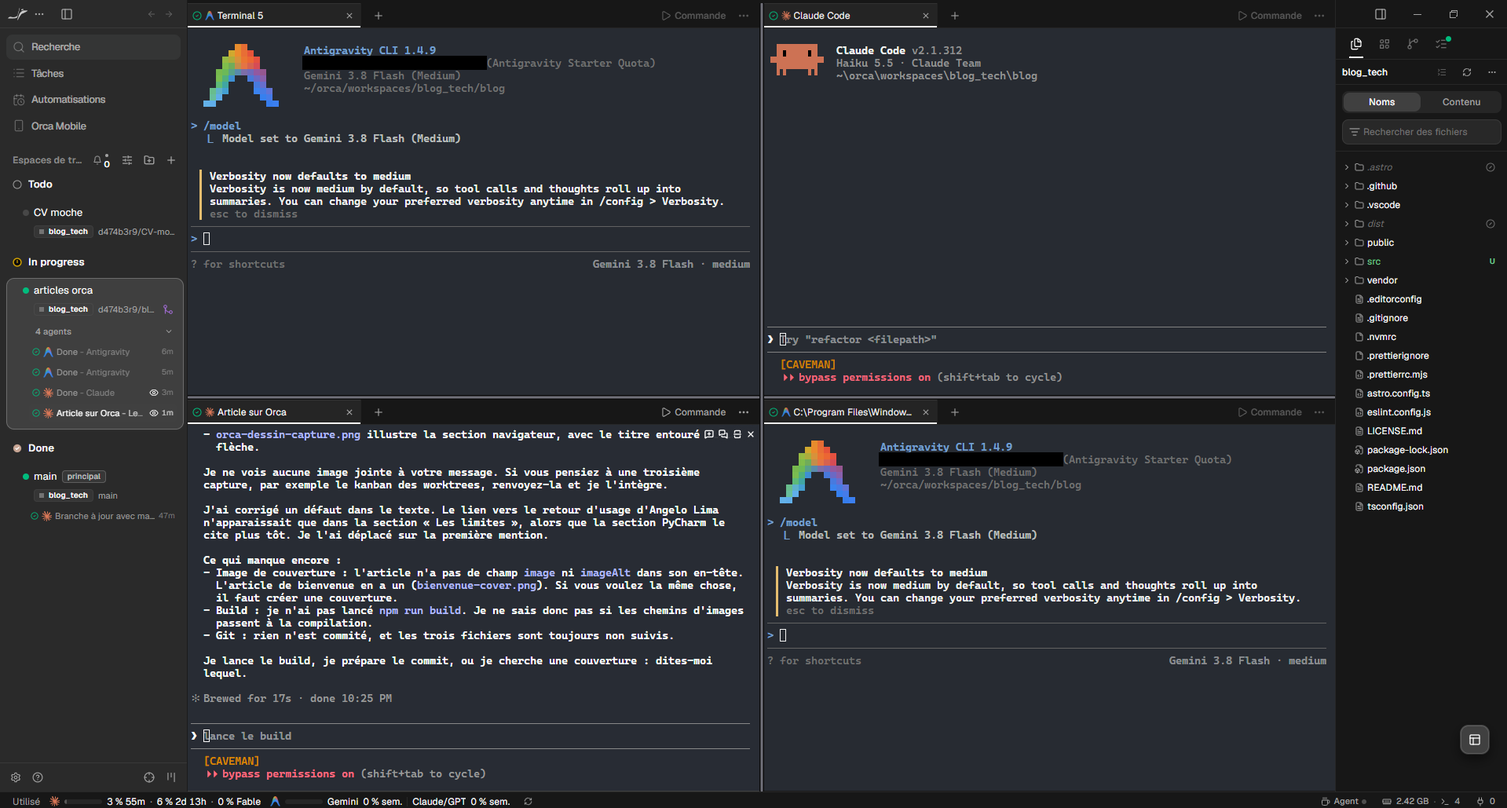
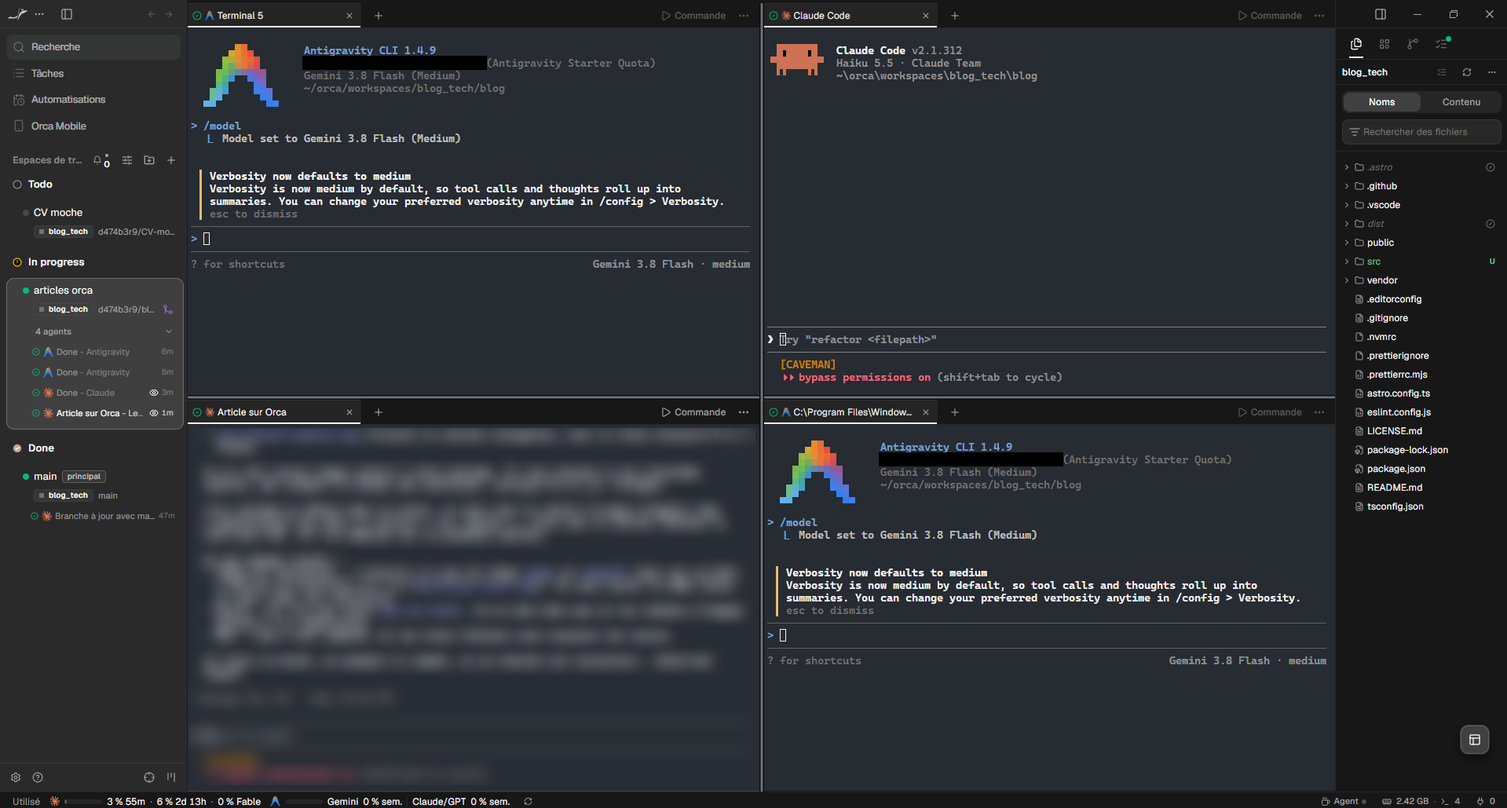
fix(blog): fact-check and polish Orca article, blur private screenshot text

Changed region(s): [[0.123, 0.5287, 0.4919, 0.8707], [0.123, 0.9018, 0.3075, 0.9951]]

diff --git a/src/data/post/orca.md b/src/data/post/orca.md
@@ -1,9 +1,9 @@
 ---
 publishDate: 2026-10-28T18:00:00Z
-title: 'Orca, mon précieux ! Pourquoi je migre de PyCharm'
-excerpt: 'Savoir quel agent fait quoi et ce qu''il coûte à la machine, des kanbans, un crayon dans le navigateur, une course entre trois agents : les killer features qui me font migrer vers Orca.'
+title: 'Orca, mon précieux ! Pourquoi je migre de PyCharm'
+excerpt: "Savoir quel agent fait quoi et ce qu'il coûte à la machine, des kanbans, un crayon dans le navigateur, une course entre trois agents : les killer features qui me font migrer vers Orca."
 image: ~/assets/images/orca-cover-site.png
-imageAlt: 'Page d''accueil d''Orca sur fond noir : le slogan « Ship 100x with the agent IDE » et une phrase expliquant qu''on y lance des agents de code en parallèle, chacun dans son propre worktree. Visuel : onorca.dev'
+imageAlt: "Page d'accueil d'Orca sur fond noir : le slogan « Ship 100x with the agent IDE » et une phrase expliquant qu'on y lance des agents de code en parallèle, chacun dans son propre worktree. Visuel : onorca.dev"
 category: Outils
 tags:
   - orca
@@ -14,111 +14,111 @@ tags:
 
 <div class="tldr">
 
-⚡ **TL;DR : l'article en 3 points**
+⚡ **TL;DR : l'article en 3 points**
 
-- **Pourquoi je migre** : Orca range chaque tâche dans son propre git worktree, avec son terminal, son navigateur et l'état de son agent. Les agents arrêtent de se marcher dessus.
-- **Les killer features** : voir quel agent fait quoi et ce qu'il consomme sur ma machine, deux kanbans (worktrees et agents), sélectionner, annoter ou dessiner dans le navigateur ce que je veux modifier, et faire courir trois agents sur la même tâche (pas encore testé).
-- **Ce qu'il fait moins bien** : la dictée vocale (Wispr Flow fait mieux), pas de vraie sandbox, pas de modèle intégré. PyCharm garde ses atouts.
+- **Pourquoi je migre** : Orca range chaque tâche dans son propre git worktree, avec son terminal, son navigateur et l'état de son agent. Les agents arrêtent de se marcher dessus.
+- **Les killer features** : voir quel agent fait quoi et ce qu'il consomme sur ma machine, deux kanbans (worktrees et agents), sélectionner, annoter ou dessiner dans le navigateur ce que je veux modifier, et faire courir trois agents sur la même tâche (pas encore testé).
+- **Ce qu'il fait moins bien** : la dictée vocale (Wispr Flow fait mieux), pas de vraie sandbox, pas de modèle intégré. PyCharm garde ses atouts.
 
 </div>
 
-Un agent de code seul dans un dépôt, c'est confortable. Trois agents dans le même dossier, c'est un open space sans cloisons : chacun écrit dans les fichiers des autres, et personne ne sait quelle branche est la bonne. Orca installe les cloisons.
+Un agent de code seul dans un dépôt, c'est confortable. Trois agents dans le même dossier, c'est un open space sans cloisons : chacun écrit dans les fichiers des autres, et personne ne sait quelle branche est la bonne. Orca installe les cloisons.
 
-Je cherchais un moyen efficace d'organiser mon travail. Passer d'une tâche longue, menée par une équipe d'agents, à une autre sur le même dépôt, sans que mes essaims d'agents se prennent les pieds dans le tapis d'une tâche à l'autre. Jusque-là, j'attendais la fin de la tâche, ou je basculais sur un autre dépôt le temps qu'elle se termine.
+Je cherchais un moyen efficace d'organiser mon travail : passer d'une tâche longue, menée par une équipe d'agents, à une autre sur le même dépôt, sans que les agents se prennent les pieds dans le tapis. Jusque-là, j'attendais la fin de la tâche, ou je basculais sur un autre dépôt le temps qu'elle se termine.
 
-Je suis en train de migrer de PyCharm vers Orca. Pas contre PyCharm, qui reste un excellent IDE : parce que ma façon de travailler a changé. Voici ce qui m'a fait basculer.
+Je suis en train de migrer de PyCharm vers Orca. Pas contre PyCharm, qui reste un excellent IDE : parce que ma façon de travailler a changé. Voici ce qui m'a fait basculer.
 
-![Capture de l'interface d'Orca : quatre terminaux d'agents côte à côte au centre, la liste des espaces de travail classés en Todo, In progress et Done à gauche, l'arborescence des fichiers du dépôt à droite.](../../assets/images/orca-interface.png)
+![Capture de l'interface d'Orca : quatre terminaux d'agents côte à côte au centre, la liste des espaces de travail classés en Todo, In progress et Done à gauche, l'arborescence des fichiers du dépôt à droite.](../../assets/images/orca-interface.png)
 
-l'interface d'Orca : les worktrees par statut, quatre agents en parallèle, l'arborescence du dépôt
+_L'interface d'Orca : les worktrees par statut, quatre agents en parallèle, l'arborescence du dépôt_
 
-## Killer feature 1 : un worktree par tâche, et les agents arrêtent de se marcher dessus
+## Killer feature 1 : un worktree par tâche, et les agents arrêtent de se marcher dessus
 
-Un dépôt git n'a qu'un répertoire de travail et une branche active à la fois. Deux agents qui modifient le même dossier se gênent. La parade existe depuis longtemps dans git : le worktree, un second répertoire de travail rattaché au même dépôt, avec sa propre branche.
+Un dépôt git n'a qu'un répertoire de travail et une branche active à la fois. Deux agents qui modifient le même dossier se gênent. La parade existe depuis longtemps dans git : le worktree, un second répertoire de travail rattaché au même dépôt, avec sa propre branche.
 
 ```bash
 git worktree add ../feature-export -b feature-export
 ```
 
-un worktree par tâche, à la main
+_Un worktree par tâche, à la main_
 
-Le faire à la main pour chaque tâche, ouvrir un terminal par dossier, lancer l'agent, suivre qui a fini : c'est de la plomberie. Orca la prend en charge. D'après son site, chaque tâche tourne dans son propre git worktree. Un worktree peut avoir des enfants, se rattacher à une issue ou à une PR, s'épingler en haut de la liste ou être mis en veille depuis la barre latérale.
+Le faire à la main pour chaque tâche, ouvrir un terminal par dossier, lancer l'agent, suivre qui a fini : c'est de la plomberie. Orca la prend en charge. D'après son site, chaque tâche tourne dans son propre git worktree. Un worktree peut avoir des enfants, se rattacher à une issue ou à une PR, s'épingler en haut de la liste ou être mis en veille depuis la barre latérale.
 
-**Le détail Python.** Un worktree ne contient que les fichiers suivis par git. Votre `.venv`, ignoré, n'y est pas : chaque worktree demande son propre environnement. Sur un projet Python, comptez donc une création d'environnement par worktree. Pour l'instant, ce coût ne me gêne pas : je ne l'ai pas chiffré, et je le surveillerai sur les projets lourds.
+**Le détail Python.** Un worktree ne contient que les fichiers suivis par git. Votre `.venv`, ignoré, n'y est pas : chaque worktree demande son propre environnement. Sur un projet Python, comptez donc une création d'environnement par worktree. Pour l'instant, ce coût ne me gêne pas : je ne l'ai pas chiffré, et je le surveillerai sur les projets lourds.
 
-Côté création, la fenêtre « Créer un worktree » demande le projet, la référence de départ (`origin/main` par défaut, ou une issue GitHub, une branche, un simple nom) et, en option, l'agent à lancer dedans.
+Côté création, la fenêtre « Créer un worktree » demande le projet, la référence de départ (`origin/main` par défaut, ou une issue GitHub, une branche, un simple nom) et, en option, l'agent à lancer dedans.
 
-## Killer feature 2 : savoir quel agent fait quoi, à quel moment, et ce qu'il coûte à la machine
+## Killer feature 2 : savoir quel agent fait quoi, à quel moment, et ce qu'il coûte à la machine
 
-C'est la fonction qui change le plus mon quotidien. Avec plusieurs agents en parallèle, la question n'est plus « que fait mon agent ? » mais « lequel fait quoi, depuis quand, et lequel attend après moi ? ». Orca y répond à plusieurs niveaux.
+C'est la fonction qui change le plus mon quotidien. Avec plusieurs agents en parallèle, la question n'est plus « que fait mon agent ? » mais « lequel fait quoi, depuis quand, et lequel attend après moi ? ». Orca y répond à plusieurs niveaux.
 
-- **Sur chaque carte de worktree** : un indicateur d'état. Une roue pour « au travail », un point d'interrogation ambre pour « attend votre réponse », un point vert pour « terminé », un point rouge pour « bloqué ou en échec », un point gris pour « inactif ».
-- **L'Agent Dashboard** : un kanban des agents, tous worktrees confondus, avec les colonnes « Needs You », « Working », « Done » et, en option, « Idle ». Recherche, filtres par projet, par statut de worktree et par statut de PR, ouverture dans la fenêtre ou en fenêtre séparée. Il est expérimental : il s'active dans Settings → Experimental.
-- **L'Agents feed** : un fil chronologique des fins de tour, des questions bloquantes et des créations de worktree, avec un aperçu de la dernière réponse de chaque agent. Les agents au travail restent épinglés en haut.
-- **Le Resource Manager** : un indicateur de la barre d'état qui affiche la consommation du processeur et de la mémoire, les sessions, les contrôles du daemon et des analyses d'espace disque par workspace. C'est lui qui répond à « combien ils consomment sur ma machine ».
-- **L'hibernation** : quand vous gardez des dizaines de worktrees ouverts, chaque agent inactif est un terminal vivant qui garde une session en mémoire. Orca peut mettre en pause ceux qui ont fini depuis un certain temps (30 minutes par défaut, réglable de 1 minute à 24 heures) et reprendre la même session à la réouverture. Elle est expérimentale et désactivée par défaut, et ne concerne que les agents capables de reprendre une session.
+- **Sur chaque carte de worktree** : un indicateur d'état. Une roue pour « au travail », un point d'interrogation ambre pour « attend votre réponse », un point vert pour « terminé », un point rouge pour « bloqué ou en échec », un point gris pour « inactif ».
+- **L'Agent Dashboard** : un kanban des agents, tous worktrees confondus, avec les colonnes « Needs You », « Working », « Done » et, en option, « Idle ». Recherche, filtres par projet, par statut de worktree et par statut de PR, ouverture dans la fenêtre ou en fenêtre séparée. Il est expérimental : il s'active dans Settings → Experimental.
+- **L'Agents feed** : un fil chronologique des fins de tour, des questions bloquantes et des créations de worktree, avec un aperçu de la dernière réponse de chaque agent. Les agents au travail restent épinglés en haut.
+- **Le Resource Manager** : un indicateur de la barre d'état qui affiche la consommation du processeur et de la mémoire, les sessions, les contrôles du daemon et des analyses d'espace disque par workspace. C'est lui qui répond à « combien ils consomment sur ma machine ».
+- **L'hibernation** : quand vous gardez des dizaines de worktrees ouverts, chaque agent inactif est un terminal vivant qui garde une session en mémoire. Orca peut mettre en pause ceux qui ont fini depuis un certain temps (30 minutes par défaut, réglable de 1 minute à 24 heures) et reprendre la même session à la réouverture. Elle est expérimentale et désactivée par défaut, et ne concerne que les agents capables de reprendre une session.
 
 Côté CLI, `orca diagnostics memory` produit un instantané mémoire d'Orca et de ses terminaux.
 
-Voici ce que donne le Resource Manager (« Gestionnaire de ressources » dans l'interface française) sur ma machine, avec un espace de travail actif : un onglet Ressources et un onglet PTY, une ligne par worktree puis par terminal, et en bas Orca lui-même.
+Voici ce que donne le Resource Manager (« Gestionnaire de ressources » dans l'interface française) sur ma machine, avec un espace de travail actif : un onglet Ressources et un onglet PTY, une ligne par worktree puis par terminal, et en bas Orca lui-même.
 
-![Panneau « Gestionnaire de ressources » d'Orca : 2,5 % de processeur et 3,34 Go de mémoire au total. Le worktree « articles orca » occupe 2,44 Go sur quatre terminaux, dont un à 1,44 Go. Orca lui-même occupe 912 Mo.](../../assets/images/orca-ressources.png)
+![Panneau « Gestionnaire de ressources » d'Orca : 2,5 % de processeur et 3,34 Go de mémoire au total. Le worktree « articles orca » occupe 2,44 Go sur quatre terminaux, dont un à 1,44 Go. Orca lui-même occupe 912 Mo.](../../assets/images/orca-ressources.png)
 
-le gestionnaire de ressources : processeur et mémoire par worktree, par terminal, et pour Orca lui-même
+_Le gestionnaire de ressources : processeur et mémoire par worktree, par terminal, et pour Orca lui-même_
 
-Dans cet exemple : 3,34 Go de mémoire au total, dont 2,44 Go pour le worktree sur lequel j'écris cet article, répartis sur quatre terminaux (de 301 Mo à 1,44 Go : un seul terminal pèse plus que les trois autres réunis). Orca lui-même pèse 912 Mo, dont 331 Mo pour l'affichage. Un seul espace, donc rien d'inquiétant, mais l'écart entre terminaux montre à quoi sert ce panneau : repérer lequel gonfle. Avec dix agents en parallèle, il prendra tout son sens. Un bouton « Nettoyer les espaces de travail » et une analyse de l'espace disque (en bêta) complètent le tout.
+Dans cet exemple : 3,34 Go de mémoire au total, dont 2,44 Go pour le worktree sur lequel j'écris cet article, répartis sur quatre terminaux (de 301 Mo à 1,44 Go : un seul terminal pèse plus que les trois autres réunis). Orca lui-même pèse 912 Mo, dont 331 Mo pour l'affichage. Un seul espace, donc rien d'inquiétant, mais l'écart entre terminaux montre à quoi sert ce panneau : repérer lequel gonfle. Avec dix agents en parallèle, il prendra tout son sens. Un bouton « Nettoyer les espaces de travail » et une analyse de l'espace disque (en bêta) complètent le tout.
 
-Précision utile : il s'agit de la consommation de **votre système**, pas de la facture en tokens d'une exécution. Orca suit l'usage de certains abonnements d'agents et leurs limites de débit, et la vue chat de certains agents affiche un anneau de remplissage de la fenêtre de contexte. Il ne chiffre pas le coût d'un run.
+Précision utile : il s'agit de la consommation de **votre système**, pas de la facture en tokens d'une exécution. Orca suit l'usage de certains abonnements d'agents et leurs limites de débit, et la vue chat de certains agents affiche un anneau de remplissage de la fenêtre de contexte. Il ne chiffre pas le coût d'une exécution.
 
-## Killer feature 3 : les worktrees en kanban
+## Killer feature 3 : les worktrees en kanban
 
-Il y a en fait deux kanbans. Celui des agents, décrit plus haut, et celui des **worktrees**, le Workspace Board. Chaque worktree est une carte, et les colonnes par défaut sont `todo`, `in-progress`, `in-review` et `completed`. Les statuts peuvent aussi se changer depuis la CLI, donc un agent peut déplacer sa propre carte :
+Il y a en fait deux kanbans. Celui des agents, décrit plus haut, et celui des **worktrees**, le Workspace Board. Chaque worktree est une carte, et les colonnes par défaut sont `todo`, `in-progress`, `in-review` et `completed`. Les statuts peuvent aussi se changer depuis la CLI, donc un agent peut déplacer sa propre carte :
 
 ```bash
 orca worktree set --worktree active --workspace-status in-review --unread
 ```
 
-passer le worktree courant en revue
+_Passer le worktree courant en revue_
 
-Une ligne de commentaire, modifiable avec `--comment`, s'affiche sur la carte. Le raccourci « Toggle Workspace Board » n'est lié à aucune touche par défaut : à assigner dans Settings → Shortcuts. Pour quelqu'un qui jongle avec cinq tâches, c'est plus lisible qu'une pile de terminaux.
+Une ligne de commentaire, modifiable avec `--comment`, s'affiche sur la carte. Le raccourci « Toggle Workspace Board » n'est lié à aucune touche par défaut : à assigner dans Settings → Shortcuts. Pour quelqu'un qui jongle avec cinq tâches, c'est plus lisible qu'une pile de terminaux.
 
-Chez moi, je glisse un worktree sur le côté, par-dessus mon terminal, et le kanban apparaît, comme sur cette capture. Je clique sur une carte, je la glisse d'une colonne à l'autre (Todo, In progress, In review, Done), et la zone « Épinglés » en haut permet de garder une carte à portée sans changer son statut. Je commence tout juste à m'en servir : pour l'instant, mes trois worktrees tiennent sur un coup d'œil.
+Chez moi, j'ouvre le kanban par-dessus mon terminal, comme sur cette capture. Je clique sur une carte, je la glisse d'une colonne à l'autre (Todo, In progress, In review, Done), et la zone « Épinglés » en haut permet de garder une carte à portée sans changer son statut. Je commence tout juste à m'en servir : pour l'instant, mes trois worktrees tiennent sur un coup d'œil.
 
-![Tableau des espaces de travail d'Orca : quatre colonnes Todo, In progress, In review et Done. Le worktree « articles orca » est en cours de déplacement, avec ses quatre agents listés dans sa carte, et la zone « Épinglés » apparaît en haut.](../../assets/images/orca-kanban.png)
+![Tableau des espaces de travail d'Orca : quatre colonnes Todo, In progress, In review et Done. Le worktree « articles orca » est en cours de déplacement, avec ses quatre agents listés dans sa carte, et la zone « Épinglés » apparaît en haut.](../../assets/images/orca-kanban.png)
 
-le kanban des worktrees ouvert par-dessus le terminal : une carte glissée entre deux colonnes
+_Le kanban des worktrees ouvert par-dessus le terminal : une carte glissée entre deux colonnes_
 
-## Killer feature 4 : le navigateur où l'on montre à l'agent ce qu'on veut
+## Killer feature 4 : le navigateur où l'on montre à l'agent ce qu'on veut
 
-Orca embarque un navigateur Chromium par worktree. Il sert à voir ce que l'agent construit sans quitter la tâche. Et c'est la fonction qui m'a le plus plu : on y montre à l'agent ce qu'on veut, de trois façons.
+Orca embarque un navigateur Chromium par worktree. Il sert à voir ce que l'agent construit sans quitter la tâche. Et c'est la fonction qui m'a le plus plu : on y montre à l'agent ce qu'on veut, de trois façons.
 
 - **Sélectionner un élément, chirurgicalement.** Le Design Mode transforme le curseur en sélecteur. Un clic sur un élément envoie à l'agent, comme une seule pièce jointe, son HTML (et celui de son voisinage), son CSS calculé, une capture recadrée et, quand une source map de développement existe, le fichier et la ligne source.
 - **L'annoter.** Un plateau d'annotations permet de garder plusieurs notes sur la page, chacune avec son commentaire, avant de les envoyer à l'agent.
-- **Dessiner sur la capture.** Le bouton « Dessiner sur la capture d'écran » ouvre une barre d'outils : crayon, surligneur, flèche, rectangle, cercle, texte, gomme, couleur, taille, annuler et rétablir. Vous entourez la zone, vous flèchez l'élément, vous écrivez à côté ce que vous voulez, puis « Copier le markup » et vous le collez dans votre agent.
+- **Dessiner sur la capture.** Le bouton « Dessiner sur la capture d'écran » ouvre une barre d'outils : crayon, surligneur, flèche, rectangle, cercle, texte, gomme, couleur, taille, annuler et rétablir. Vous entourez la zone, vous flèchez l'élément, vous écrivez à côté ce que vous voulez, puis « Copier le markup » et vous le collez dans votre agent.
 
-![Page d'accueil du blog DataStart dans le navigateur d'Orca : le titre « DataStart » est entouré en rouge et une flèche rouge part vers la droite, pour demander à l'agent de déplacer ce titre.](../../assets/images/orca-dessin-capture.png)
+![Page d'accueil du blog DataStart dans le navigateur d'Orca : le titre « DataStart » est entouré en rouge et une flèche rouge part vers la droite, pour demander à l'agent de déplacer ce titre.](../../assets/images/orca-dessin-capture.png)
 
-dessin sur la capture : le titre entouré et une flèche, prêts à être copiés vers l'agent
+_Dessin sur la capture : le titre entouré et une flèche, prêts à être copiés vers l'agent_
 
-Fini le « le bouton en haut à droite, non, l'autre ». L'agent corrige le code, le rechargement à chaud rafraîchit la page, et vous vérifiez en recliquant. La doc annonce de « ce bouton est moche » au commit en moins d'une minute. C'est vraiment cool.
+Fini le « le bouton en haut à droite, non, l'autre ». L'agent corrige le code, le rechargement à chaud rafraîchit la page, et vous vérifiez en recliquant. La documentation promet un parcours complet en quelques minutes, du retour visuel jusqu'au commit. Sur mon essai, l'aller-retour entre le dessin et la correction est effectivement très court.
 
-Mon essai : sur la page d'accueil de ce blog, j'ai entouré le titre « DataStart » et tracé une flèche vers la droite, pour demander de déplacer le bloc titre à droite de la carte de l'article. L'agent a modifié la page, je l'ai vue se rafraîchir, puis j'ai annulé : c'était pour la démonstration.
+Mon essai : sur la page d'accueil de ce blog, j'ai entouré le titre « DataStart » et tracé une flèche vers la droite, pour demander de déplacer le bloc titre à droite de la carte de l'article. L'agent a modifié la page, je l'ai vue se rafraîchir, puis j'ai annulé : c'était pour la démonstration.
 
-## Killer feature 5 : faire courir trois agents sur la même tâche
+## Killer feature 5 : faire courir trois agents sur la même tâche
 
-La doc d'Orca appelle ça son « killer move » : même prompt, trois worktrees, trois agents différents, et vous gardez le gagnant.
+La documentation d'Orca propose un scénario phare : même prompt, trois worktrees, trois agents différents, et vous gardez le gagnant.
 
 1. Créer trois worktrees depuis la même référence.
 2. Lancer un agent différent dans chacun.
 3. Coller le même prompt dans les trois.
-4. Relire les trois diffs une fois terminés, annoter celui qui gagne.
+4. Relire les trois diffs une fois terminés et garder le gagnant.
 5. Commit, push et PR depuis le worktree retenu, puis supprimer les deux autres en un clic.
 
-L'argument de la doc : des agents différents font des erreurs différentes. Là où les trois s'accordent, la réponse est probablement juste. Là où ils divergent, vous avez trouvé le point dur.
+L'argument de la documentation : des agents différents font des erreurs différentes. Là où les trois s'accordent, la réponse est probablement juste. Là où ils divergent, vous avez trouvé le point dur.
 
-Je ne l'ai pas encore essayée. C'est mon prochain test : la même fonctionnalité dans trois worktrees, avec trois modèles différents, pour mesurer leur efficacité et les challenger entre eux. Je ferai le même exercice pour comparer les nouveaux modèles, en mono-agent et en multi-agents.
+Je ne l'ai pas encore essayée. C'est mon prochain test : la même fonctionnalité dans trois worktrees, avec trois modèles différents, pour mesurer leur efficacité et les challenger entre eux. Je ferai le même exercice pour comparer les nouveaux modèles, en mono-agent et en multi-agents.
 
-## Et aussi : la CLI, pour que l'agent pilote son propre poste de travail
+## Et aussi : la CLI, pour que l'agent pilote son propre poste de travail
 
 Orca livre une CLI `orca`, et elle n'est pas réservée aux humains. Un agent peut s'en servir pour créer un worktree, lire ou écrire dans un terminal, piloter le navigateur.
 
@@ -129,71 +129,71 @@ orca worktree current
 orca worktree ps
 ```
 
-état d'Orca puis inventaire des worktrees
+_État d'Orca puis inventaire des worktrees_
 
-Au-dessus, deux couches : `orca orchestration` (tâches, DAG, workers supervisés, decision gates) et `orca automations` (déclencheur cron ou RRULE, avec un precheck). L'orchestration est générique : pas de rôles prédéfinis comme « chef de projet » ou « reviewer ». Vous définissez les vôtres.
+Au-dessus, deux couches : `orca orchestration` (tâches, DAG, workers supervisés, _decision gates_) et `orca automations` (déclencheur cron ou RRULE, avec une vérification préalable). L'orchestration est générique : pas de rôles prédéfinis comme « chef de projet » ou « reviewer ». Vous définissez les vôtres.
 
-Je n'ai pas encore eu le temps de tester l'orchestration ni les automatisations. L'intérêt que j'y vois : tout faire dans le même outil, proprement.
+Je n'ai pas encore eu le temps de tester l'orchestration ni les automatisations. L'intérêt que j'y vois : tout faire dans le même outil, proprement.
 
-## Et aussi : Orca Mobile, une télécommande pour vos agents
+## Et aussi : Orca Mobile, une télécommande pour vos agents
 
-Orca a une application mobile, que j'utilise. Elle ne remplace pas le bureau : la [documentation](https://www.onorca.dev/docs/mobile) la présente comme une télécommande, et la dit encore en bêta. Elle s'appaire avec le poste par un code à usage unique, de préférence via le mode Orca Relay, qui demande un compte.
+Orca a une application mobile, que j'utilise. Elle ne remplace pas le bureau : la [documentation](https://www.onorca.dev/docs/mobile) la présente comme une télécommande, et la dit encore en bêta. Elle s'appaire avec le poste par un code à usage unique, de préférence via le mode Orca Relay, qui demande un compte.
 
-Ce qu'elle permet : recevoir une notification quand un agent a fini, répondre à un agent qui attend (« continue », « yes », un texte libre, une photo ou un fichier), suivre l'état des worktrees, consulter un terminal, dicter une réponse, et même commiter. Pour qui lance une tâche longue et s'éloigne de son poste, c'est précisément la bonne question : « est-ce qu'il attend après moi ? ». Une session directe ou locale se coupe en revanche quand l'application bureau est fermée.
+Ce qu'elle permet : recevoir une notification quand un agent a fini, répondre à un agent qui attend (« continue », « yes », un texte libre, une photo ou un fichier), suivre l'état des worktrees, consulter un terminal, dicter une réponse, et même commiter. Pour qui lance une tâche longue et s'éloigne de son poste, elle répond à la bonne question : « est-ce qu'il attend après moi ? ». Une session directe ou locale se coupe en revanche quand l'application bureau est fermée.
 
-**L'installation, côté plateformes.** Sur iPhone, c'est l'App Store. Sur Android, il n'y a pas de Play Store : il faut télécharger un fichier `app-release.apk` depuis la [page de téléchargement](https://www.onorca.dev/docs/android-apk), autoriser temporairement le navigateur à installer des applications inconnues (et, sur certains Samsung, désactiver « Auto Blocker » le temps de l'installation). C'est nettement moins confortable, et la page ne dit rien des mises à jour ni d'une publication sur le Play Store.
+**L'installation, côté plateformes.** Sur iPhone, c'est l'App Store. Sur Android, il n'y a pas de Play Store : il faut télécharger un fichier `app-release.apk` depuis la [page de téléchargement](https://www.onorca.dev/docs/android-apk), autoriser temporairement le navigateur à installer des applications inconnues (et, sur certains Samsung, désactiver « Auto Blocker » le temps de l'installation). C'est nettement moins confortable, et la page ne dit rien des mises à jour ni d'une publication sur le Play Store.
 
-## Ce qu'il fait moins bien : la dictée vocale
+## Ce qu'il fait moins bien : la dictée vocale
 
-Activer la dictée est simple : Settings → Voice, on choisit le micro, le mode (appui pour démarrer et arrêter, ou maintien pour parler) et un modèle de reconnaissance. Les modèles embarqués sont SenseVoice (chinois, anglais, japonais, coréen, cantonais) et Whisper Tiny (plus de 90 langues, que la doc elle-même présente comme moins précis). On peut aussi brancher des modèles cloud d'OpenAI avec une clé d'API. Le compagnon mobile propose le micro pour répondre à un agent.
+Activer la dictée est simple : Settings → Voice, on choisit le micro, le mode (appui pour démarrer et arrêter, ou maintien pour parler) et un modèle de reconnaissance. Les modèles embarqués sont SenseVoice (chinois, anglais, japonais, coréen, cantonais) et Whisper Tiny (plus de 90 langues, que la documentation elle-même présente comme moins précis). On peut aussi brancher des modèles cloud d'OpenAI avec une clé d'API. Le compagnon mobile propose le micro pour répondre à un agent.
 
-Concrètement, Wispr Flow fait mieux le job : il capte ma voix de façon plus fluide et plus fidèle.
+Concrètement, Wispr Flow fait mieux le job : il capte ma voix de façon plus fluide et plus fidèle.
 
-Je ne suis pas le seul à le trouver rapide, avec une réserve de méthode. Un [test publié en avril 2026 sur digitiz.fr](https://digitiz.fr/wispr-flow/) annonce une latence sous les 700 millisecondes, une insertion quasi immédiate au curseur, la suppression des hésitations et un dictionnaire personnel qui apprend les noms propres et les termes techniques. Ses chiffres (une précision d'environ 97 %) ne sont pas sourcés, et le test ne couvre pas le français en particulier. Il relève aussi des limites : traitement dans le cloud, donc pas de mode hors ligne, environ 800 Mo de mémoire et une stabilité variable sous Windows.
+Je ne suis pas le seul à le trouver rapide, avec une réserve de méthode. Un [test publié en avril 2026 sur digitiz.fr](https://digitiz.fr/wispr-flow/) annonce une latence sous les 700 millisecondes, une insertion quasi immédiate au curseur, la suppression des hésitations et un dictionnaire personnel qui apprend les noms propres et les termes techniques. Ses chiffres (une précision d'environ 97 %) ne sont pas sourcés, et le test ne couvre pas le français en particulier. Il relève aussi des limites : traitement dans le cloud, donc pas de mode hors ligne, environ 800 Mo de mémoire et une stabilité variable sous Windows.
 
-Ce n'est pas rédhibitoire : un outil de dictée dédié se branche très bien à côté.
+Ce n'est pas rédhibitoire : un outil de dictée dédié se branche très bien à côté.
 
 ## Ce qu'Orca n'est pas
 
-Certaines descriptions en ligne lui prêtent des fonctions qu'il n'a pas. Dans le README, la documentation et la CLI, je n'en ai trouvé aucune trace (une absence de mention ne prouve pas tout, mais elle pèse) :
+Certaines descriptions en ligne lui prêtent des fonctions qu'il n'a pas. Dans le README, la documentation et la CLI, je n'en ai trouvé aucune trace (une absence de mention ne prouve pas tout, mais elle pèse) :
 
-- **Pas de vraie sandbox** : l'isolation est celle du worktree, fichiers et branches, pas celle d'un conteneur. Et par défaut, Orca lance chaque agent avec son drapeau de pleine autonomie, donc sans demandes de validation : l'idée de la doc est que le worktree fait office de bac à sable. Un agent garde donc les droits de votre compte. Ce comportement se règle agent par agent dans Settings → Agents.
-- **Pas de boutons d'approbation propres** : Orca montre quand un agent attend après vous (la colonne « Needs You »), mais les validations restent celles de l'agent.
-- **Pas d'inspecteur de raisonnement** : pour comprendre ce qu'un agent a fait, vous lisez son terminal et ses diffs, ou vous cherchez dans l'historique des sessions.
-- **Pas de modèle intégré** : Orca lance des agents qui apportent le leur, avec votre propre abonnement. Le site en nomme 27, dont Codex, Gemini, Cursor, Copilot et OpenCode. Ce n'est pas un IDE avec une IA dedans, c'est un poste de pilotage pour agents externes.
+- **Pas de vraie sandbox** : l'isolation est celle du worktree, fichiers et branches, pas celle d'un conteneur. Et par défaut, Orca lance chaque agent avec son drapeau de pleine autonomie, donc sans demandes de validation : l'idée de la documentation est que le worktree fait office de bac à sable. Un agent garde donc les droits de votre compte. Ce comportement se règle agent par agent dans Settings → Agents.
+- **Pas de boutons d'approbation propres** : Orca montre quand un agent attend après vous (la colonne « Needs You »), mais les validations restent celles de l'agent.
+- **Pas d'inspecteur de raisonnement** : pour comprendre ce qu'un agent a fait, vous lisez son terminal et ses diffs, ou vous cherchez dans l'historique des sessions.
+- **Pas de modèle intégré** : Orca lance des agents qui apportent le leur, avec votre propre abonnement. Le site en nomme 27 (le README GitHub en cite davantage), dont Codex, Gemini, Cursor, Copilot et OpenCode. Ce n'est pas un IDE avec une IA dedans, c'est un poste de pilotage pour agents externes.
 
 ## Et PyCharm dans tout ça
 
-PyCharm n'est pas resté en arrière : la documentation de PyCharm 2026.2 décrit un espace d'agents, via le plugin JetBrains Air (non activé par défaut), qui gère plusieurs sessions en parallèle, en local, dans le cloud ou dans un worktree temporaire.
+PyCharm n'est pas resté en arrière : la documentation de PyCharm 2026.2 décrit un espace d'agents, via le plugin JetBrains Air (non activé par défaut), qui gère plusieurs sessions en parallèle, en local, dans le cloud ou dans un worktree temporaire.
 
-Orca, lui, n'a pas de débogueur ni de refactorings d'un IDE dédié. Un [retour d'usage](https://angelo-lima.fr/en/orca-ide-agentic-development-en/) publié en septembre 2026 raconte la même chose avec IntelliJ : son auteur y garde ses refactorings et son débogage.
+Orca, lui, n'a pas de débogueur ni de refactorings d'un IDE dédié. Un [retour d'usage](https://angelo-lima.fr/en/orca-ide-agentic-development-en/) publié en septembre 2026 raconte la même chose avec IntelliJ : son auteur y garde ses refactorings et son débogage.
 
 ## Les limites
 
-- **Dépendances dupliquées** : un worktree, c'est une copie des fichiers suivis, plus l'environnement à recréer. Le disque et la mémoire montent avec le nombre d'agents. Le retour d'usage cité plus haut le signale aussi, et c'est exactement ce que le Resource Manager et l'hibernation cherchent à contenir.
-- **Plusieurs fonctions sont expérimentales** : l'Agent Dashboard, l'hibernation et la vue chat native sont à activer dans Settings → Experimental, et la doc dit elle-même qu'elles évoluent.
-- **Plus d'agents, plus à relire** : plus de diffs, plus de tokens consommés. Orca ne règle pas ça, il le rend visible.
-- **Un projet jeune et rapide** : première release le 21 mars 2026, version 1.4.243 le 28 octobre 2026, soit des versions presque quotidiennes. Environ 8 000 issues ouvertes (API GitHub, 28 octobre 2026). Surveillez la stabilité après chaque mise à jour.
-- **Télémétrie** : des événements d'usage anonymes, désactivables.
+- **Dépendances dupliquées** : un worktree, c'est une copie des fichiers suivis, plus l'environnement à recréer. Le disque et la mémoire montent avec le nombre d'agents. Le retour d'usage cité plus haut le signale aussi, et c'est exactement ce que le Resource Manager et l'hibernation cherchent à contenir.
+- **Plusieurs fonctions sont expérimentales** : l'Agent Dashboard, l'hibernation et la vue chat native sont à activer dans Settings → Experimental, et la documentation dit elle-même qu'elles évoluent.
+- **Plus d'agents, plus à relire** : plus de diffs, plus de tokens consommés. Orca ne règle pas ça, il le rend visible.
+- **Un projet jeune et rapide** : première release le 21 mars 2026, version 1.4.243 le 28 octobre 2026, soit plusieurs versions par jour en moyenne. Environ 4 100 issues ouvertes, et autant de PR (API GitHub, 28 octobre 2026). Surveillez la stabilité après chaque mise à jour.
+- **Télémétrie** : des événements d'usage anonymes, désactivables.
 
 De mon côté, aucune limite rencontrée pour l'instant. Je verrai s'il devient gourmand sur du travail très intensif.
 
 ## Installer et essayer
 
-Orca est open source (licence MIT), gratuit, édité par Stably AI. Le dépôt est `stablyai/orca`, le site [onorca.dev](https://www.onorca.dev/), et il dépasse les 100 000 étoiles GitHub (API du 28 octobre 2026). Il tourne sur macOS, Windows et Linux.
+Orca est open source (licence MIT), gratuit, édité par Stably AI. Le dépôt est `stablyai/orca`, le site [onorca.dev](https://www.onorca.dev/), et le dépôt dépasse les 100 000 étoiles GitHub (API du 28 octobre 2026). Il tourne sur macOS, Windows et Linux.
 
 ```bash
 brew install --cask stablyai/orca/orca
 ```
 
-installation sur macos
+_Installation sur macOS_
 
 Sous Windows et Linux, passez par les releases GitHub (exe, AppImage, deb, rpm).
 
-> **Petit aparté.** « orca » est aussi le nom du lecteur d'écran de GNOME. Sous Linux, le binaire d'Orca s'appelle `orca-ide`, et plusieurs dépôts GitHub sans rapport portent le même nom. Vérifiez l'organisation `stablyai` avant d'installer.
+> **Petit aparté.** « orca » est aussi le nom du lecteur d'écran de GNOME. Sous Linux, le binaire d'Orca s'appelle `orca-ide`, et plusieurs dépôts GitHub sans rapport portent le même nom. Vérifiez l'organisation `stablyai` avant d'installer.
 
 ## Ce que je retiens
 
-Pour l'instant, je teste Orca sur mon PC personnel, en même temps que je donne une formation. Vendredi, je le migre sur mon poste professionnel. Ce que j'en attends : enchaîner des tâches longues sur un même dépôt sans qu'elles se gênent, et voir d'un coup d'œil qui fait quoi. Je referai le point après quelques semaines d'usage réel.
+Pour l'instant, je teste Orca sur mon PC personnel, en même temps que je donne une formation. Vendredi 30 octobre, je le migre sur mon poste professionnel. Ce que j'en attends : enchaîner des tâches longues sur un même dépôt sans qu'elles se gênent, et voir d'un coup d'œil qui fait quoi. Je referai le point après quelques semaines d'usage réel.
 
-Un conseil : essayez Orca sur un petit dépôt, avec deux tâches indépendantes, avant de lui confier un vrai projet. Si deux agents avancent sans se gêner, vous aurez vu ce qu'il promet. Gollum, lui, n'a jamais su s'arrêter à un seul essai.
+Un conseil : essayez Orca sur un petit dépôt, avec deux tâches indépendantes, avant de lui confier un vrai projet. Si deux agents avancent sans se gêner, vous aurez vu ce qu'il promet. Gollum, lui, n'a jamais su s'arrêter à un seul essai.
